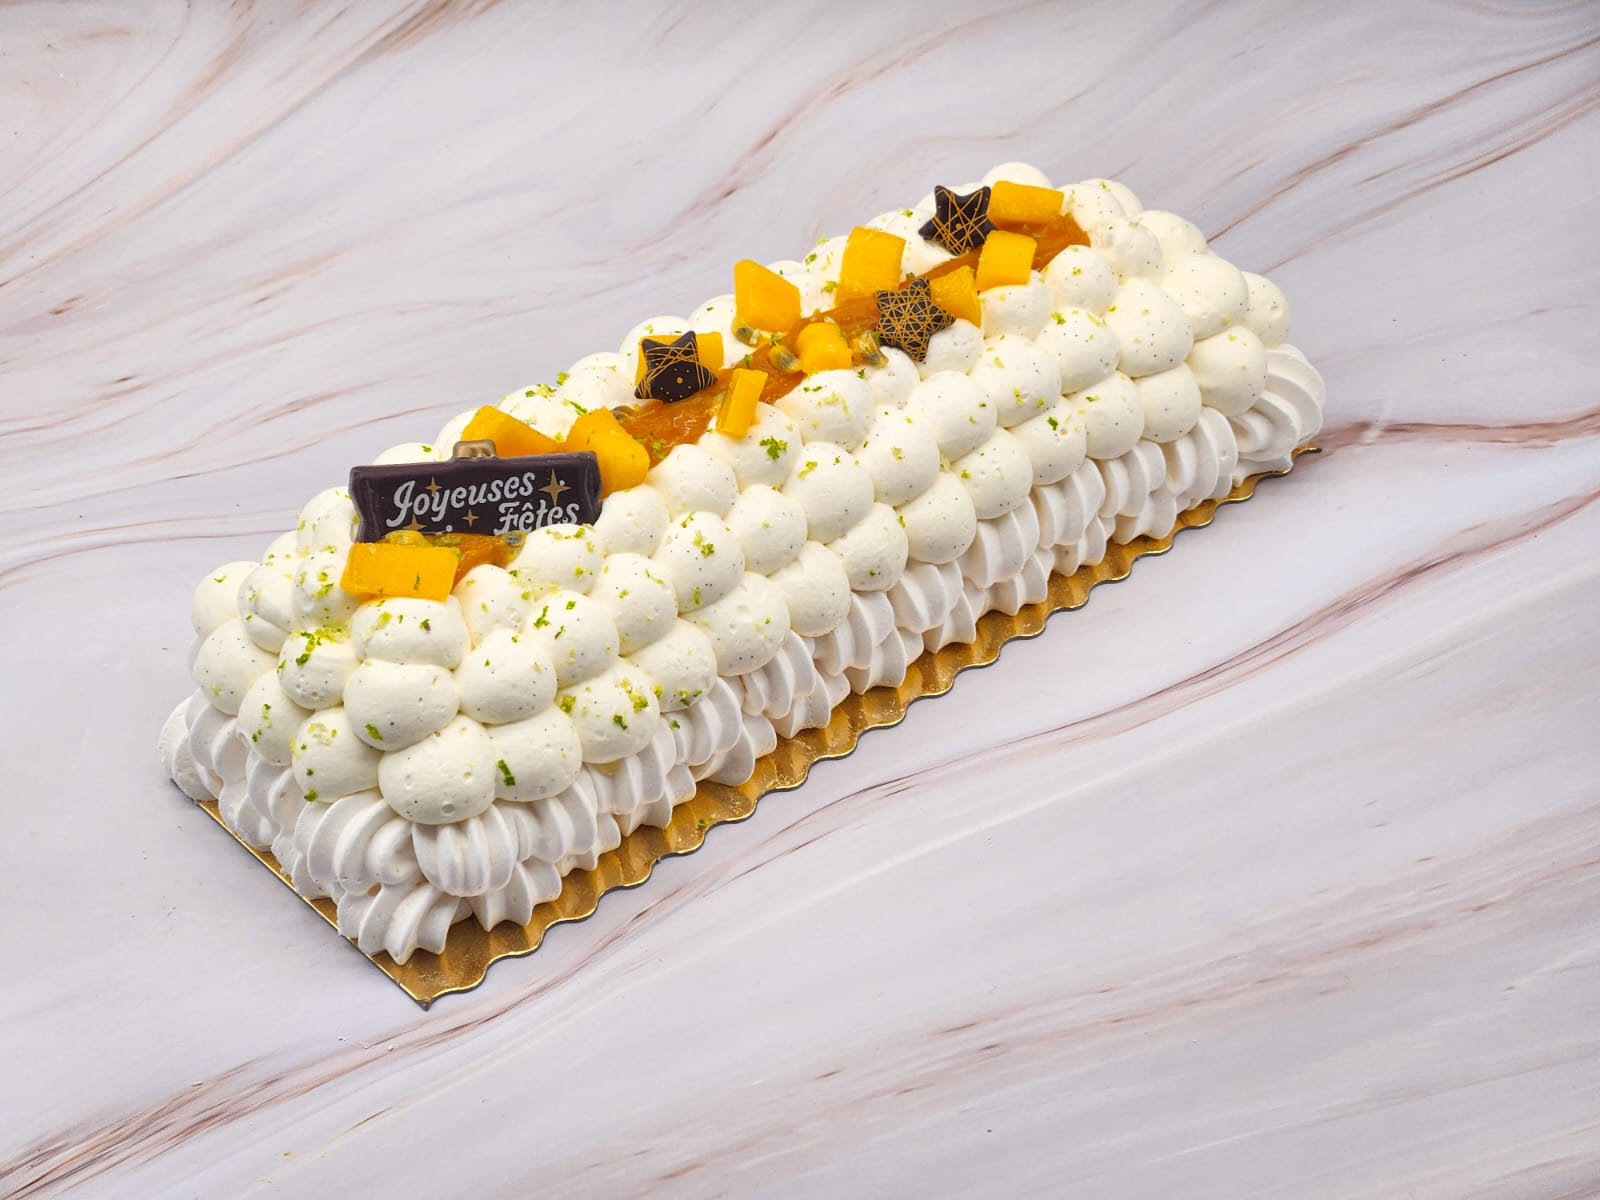
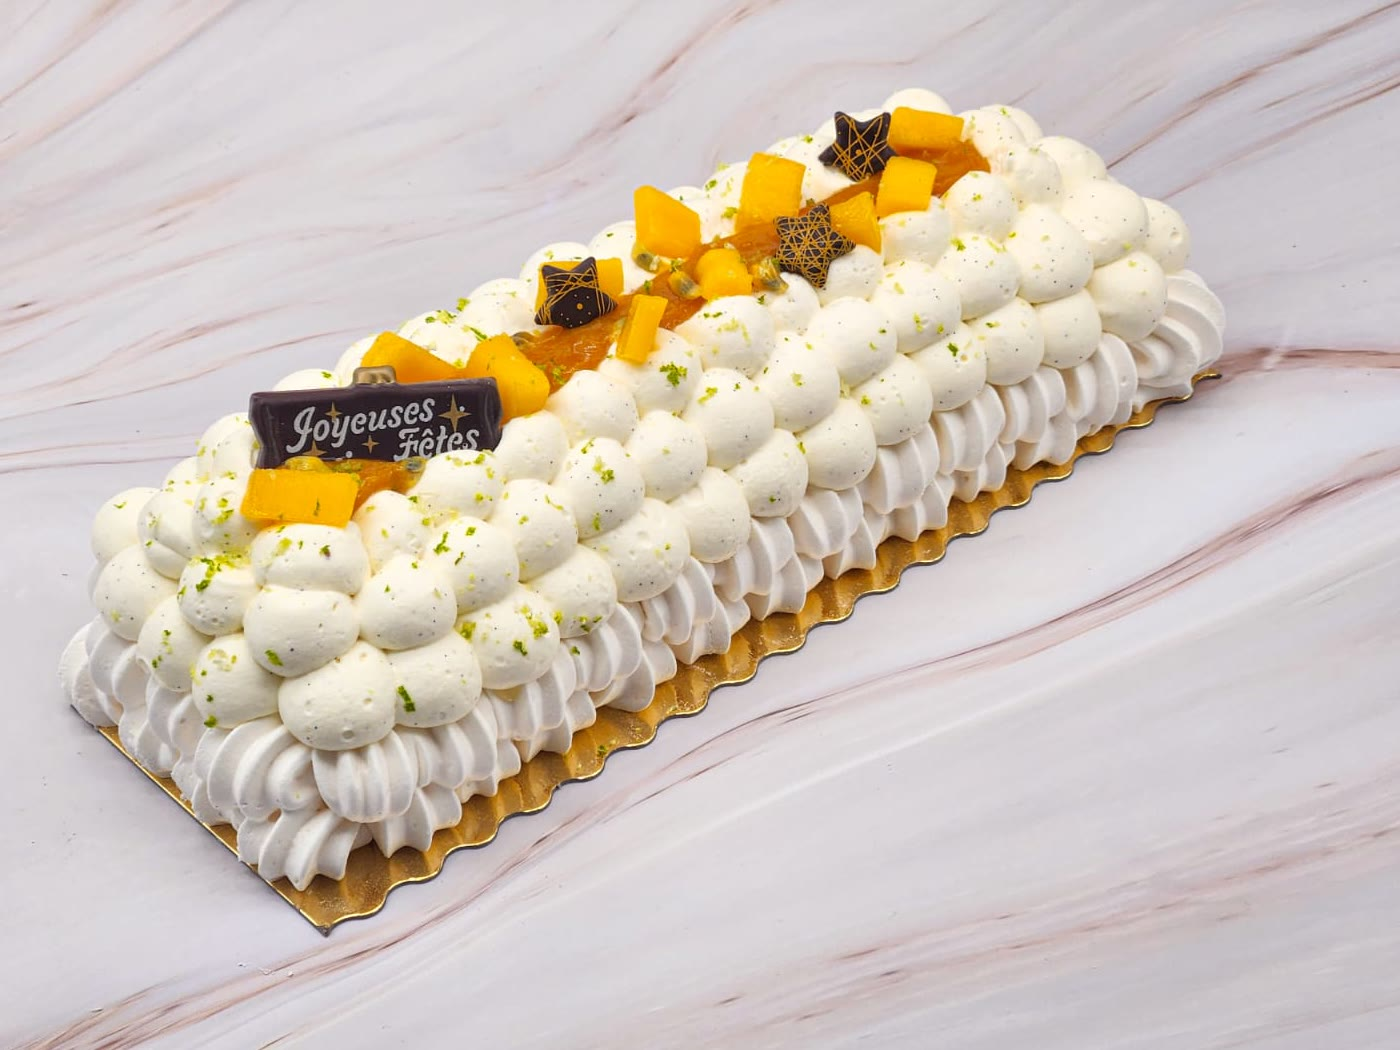
Les bûches en plus grand, et le calendrier sans date au-dessus
Sur la page d'une création, le cadre des photos prend maintenant la forme de
la photo affichée : une bûche en paysage n'a plus de larges bandes au-dessus
et en dessous d'elle. Les trois photos de bûches entières sont aussi
resserrées d'un cran ; les originaux restent dans photos-source.

Le calendrier de l'Avent perd son « Dès le 1er décembre » : Aurore le remet
avant, selon les clientes, sans date de retrait. Il ajoute les arachides à
ses allergènes. Les biscuits personnalisés des événements reçoivent la photo
des sablés d'Esmée.

diff --git a/src/pages/Produit.tsx b/src/pages/Produit.tsx
@@ -7,6 +7,14 @@ import ModalitesFetes from '../components/ModalitesFetes';
 
 function BigCarousel({ photos, alt, badge }: { photos: string[]; alt: string; badge?: boolean }) {
   const [index, setIndex] = useState(0);
+  // Le cadre prend la forme de la photo affichée : une bûche en paysage n'a
+  // plus de grandes bandes au-dessus et en dessous d'elle.
+  const [formats, setFormats] = useState<Record<number, number>>({});
+  const mesurer = (img: HTMLImageElement | null, i: number) => {
+    if (!img?.complete || !img.naturalWidth || formats[i]) return;
+    const format = img.naturalWidth / img.naturalHeight;
+    setFormats((f) => ({ ...f, [i]: format }));
+  };
   const startX = useRef<number | null>(null);
   const n = photos.length;
 
@@ -23,12 +31,13 @@ function BigCarousel({ photos, alt, badge }: { photos: string[]; alt: string; ba
   return (
     <div>
       <div
-        className="relative overflow-hidden bg-[#F3EBE1] rounded-3xl shadow-xl"
+        className="relative overflow-hidden bg-[#F3EBE1] rounded-3xl shadow-xl max-h-[70vh] transition-[aspect-ratio] duration-500"
+        style={{ aspectRatio: formats[index] ?? 4 / 5 }}
         onTouchStart={onTouchStart}
         onTouchEnd={onTouchEnd}
       >
         <div
-          className="flex transition-transform duration-500 ease-out"
+          className="flex h-full transition-transform duration-500 ease-out"
           style={{ transform: `translateX(-${index * 100}%)` }}
         >
           {photos.map((p, i) => (
@@ -37,7 +46,10 @@ function BigCarousel({ photos, alt, badge }: { photos: string[]; alt: string; ba
               src={p}
               alt={`${alt} ${i + 1}`}
               loading={i === 0 ? 'eager' : 'lazy'}
-              className="w-full h-[70vh] object-contain flex-shrink-0"
+              // Une photo déjà chargée avant l'hydratation n'émet plus onLoad.
+              ref={(img) => mesurer(img, i)}
+              onLoad={(e) => mesurer(e.currentTarget, i)}
+              className="w-full h-full object-contain flex-shrink-0"
             />
           ))}
         </div>

diff --git a/src/pages/Carte.tsx b/src/pages/Carte.tsx
@@ -55,8 +55,9 @@ function ProductCard({ product, tab }: { product: Product; tab: string }) {
 }
 
 /*
-  Le calendrier de l'Avent passe avant la carte : il s'ouvre le 1er décembre,
-  trois semaines avant les bûches, et il n'y en a que vingt.
+  Le calendrier de l'Avent passe avant la carte : on l'ouvre trois semaines
+  avant les bûches, et il n'y en a que vingt. Pas de date au-dessus : Aurore
+  le remet avant le 1er décembre, quand ça arrange la cliente.
 */
 function Calendrier() {
   const p = calendrierAvent;
@@ -73,7 +74,6 @@ function Calendrier() {
         />
       </div>
       <div className="p-6 md:p-10 flex flex-col justify-center">
-        <p className="label mb-3">Dès le 1er décembre</p>
         <h2 className="font-display font-bold italic text-[#1A130C] text-3xl md:text-4xl leading-tight mb-4">{p.name}</h2>
         <p className="text-gray-600 text-sm leading-relaxed mb-5">
           24 cases pleines de gourmandiz : nougats, florentins, caramels, rochers chocolat, meringues,

diff --git a/src/config/siteConfig.ts b/src/config/siteConfig.ts
@@ -176,7 +176,7 @@ export const siteConfig = {
         description: "Sablés décorés et personnalisés — prénom, date, motif, illustration sur feuille de sucre. Toujours emballés individuellement. Un souvenir gourmand pour chacun de vos invités.",
         features: ["Prénom, date, motif", "Toujours emballés individuellement", "Min. 20 pièces par parfum"],
         icon: "Cookie",
-        photos: ["/sables-personnalises.jpeg", "/IMG-20260711-WA0018.jpg", "/IMG-20260711-WA0022.jpg", "/IMG-20260711-WA0025.jpg"]
+        photos: ["/sables-personnalises.jpeg", "/10574.jpg", "/IMG-20260711-WA0018.jpg", "/IMG-20260711-WA0022.jpg", "/IMG-20260711-WA0025.jpg"]
       },
       {
         name: "Meringues personnalisées",

diff --git a/src/data/products.ts b/src/data/products.ts
@@ -351,7 +351,7 @@ export const calendrierAvent: Product = {
     'Et bien d\'autres gourmandiz encore, à découvrir case après case',
   ],
   prix: [{ format: 'Le calendrier', prix: '22,50 €' }],
-  allergenes: ['Gluten', 'Œufs', 'Lait', 'Fruits à coque (amande, noisette)'],
+  allergenes: ['Arachides', 'Gluten', 'Œufs', 'Lait', 'Fruits à coque (amande, noisette)'],
   note: 'Seulement 20 calendriers disponibles.',
 };
 
